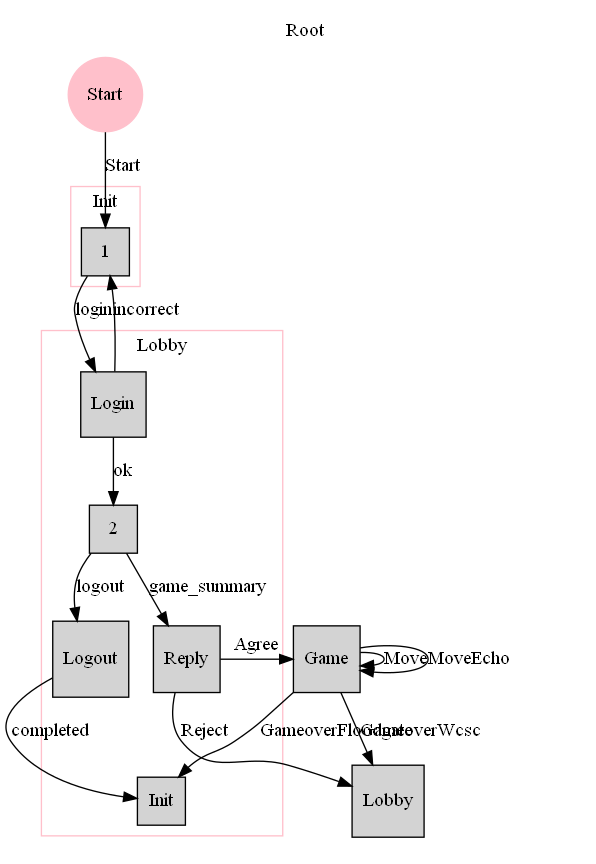
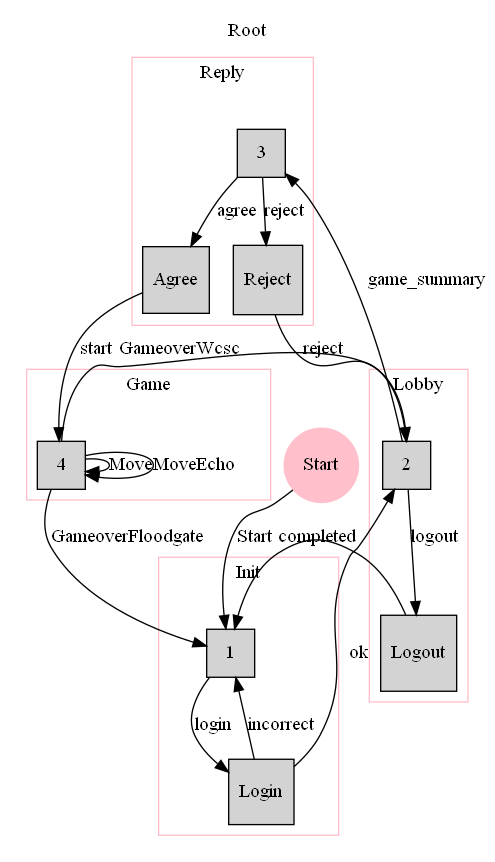
csa_server graph

diff --git a/csa_server.py b/csa_server.py
@@ -11,32 +11,43 @@ with g.subgraph(name='cluster_root') as c:
     # 開始ノード
     c.node("Start", shape="circle", color="pink")
 
-    # 有向な２つのノード
+    # ２つのノードと、その二間の有向な辺
     c.edge("Start", "1", label="Start")
 
     with c.subgraph(name='cluster_init') as c2:
         c2.attr(color='pink', label='Init')
         c2.node('1')
         c2.node('Login')
-        c2.edge('1', 'Login', 'login')
-        c2.edge('Login', '1', 'incorrect')
+        c2.edge('1', 'Login', label='login')
+        c2.edge('Login', '1', label='incorrect')
 
     with c.subgraph(name='cluster_lobby') as c2:
         c2.attr(color='pink', label='Lobby')
         c2.node('2')
         c2.node('Logout')
-        c2.edge("Login", "2", label="ok")
         c2.edge("2", "Logout", label="logout")
-        c2.edge("Logout", "Init", label="completed")
-        c2.edge("2", "Reply", label="game_summary")
 
-    c.edge("Reply", "Game", label="Agree")
-    c.edge("Reply", "Lobby", label="Reject")
+    with c.subgraph(name='cluster_reply') as c2:
+        c2.attr(color='pink', label='Reply')
+        c2.node('3')
+        c2.node('Agree')
+        c2.node('Reject')
+        c2.edge("3", "Agree", label="agree")
+        c2.edge("3", "Reject", label="reject")
 
-    c.edge("Game", "Game", label="Move")
-    c.edge("Game", "Game", label="MoveEcho")
-    c.edge("Game", "Init", label="GameoverFloodgate")
-    c.edge("Game", "Lobby", label="GameoverWcsc")
+    with c.subgraph(name='cluster_game') as c2:
+        c2.attr(color='pink', label='Game')
+        c2.node('4')
+        c2.edge("4", "4", label="Move")
+        c2.edge("4", "4", label="MoveEcho")
+
+    c.edge("Login", "2", label="ok")
+    c.edge("Logout", "1", label="completed")
+    c.edge("Reject", "2", label="reject")
+    c.edge("2", "3", label="game_summary")
+    c.edge("Agree", "4", label="start")
+    c.edge("4", "2", label="GameoverWcsc")
+    c.edge("4", "1", label="GameoverFloodgate")
 
 # 描画
 g.render("graphs")
